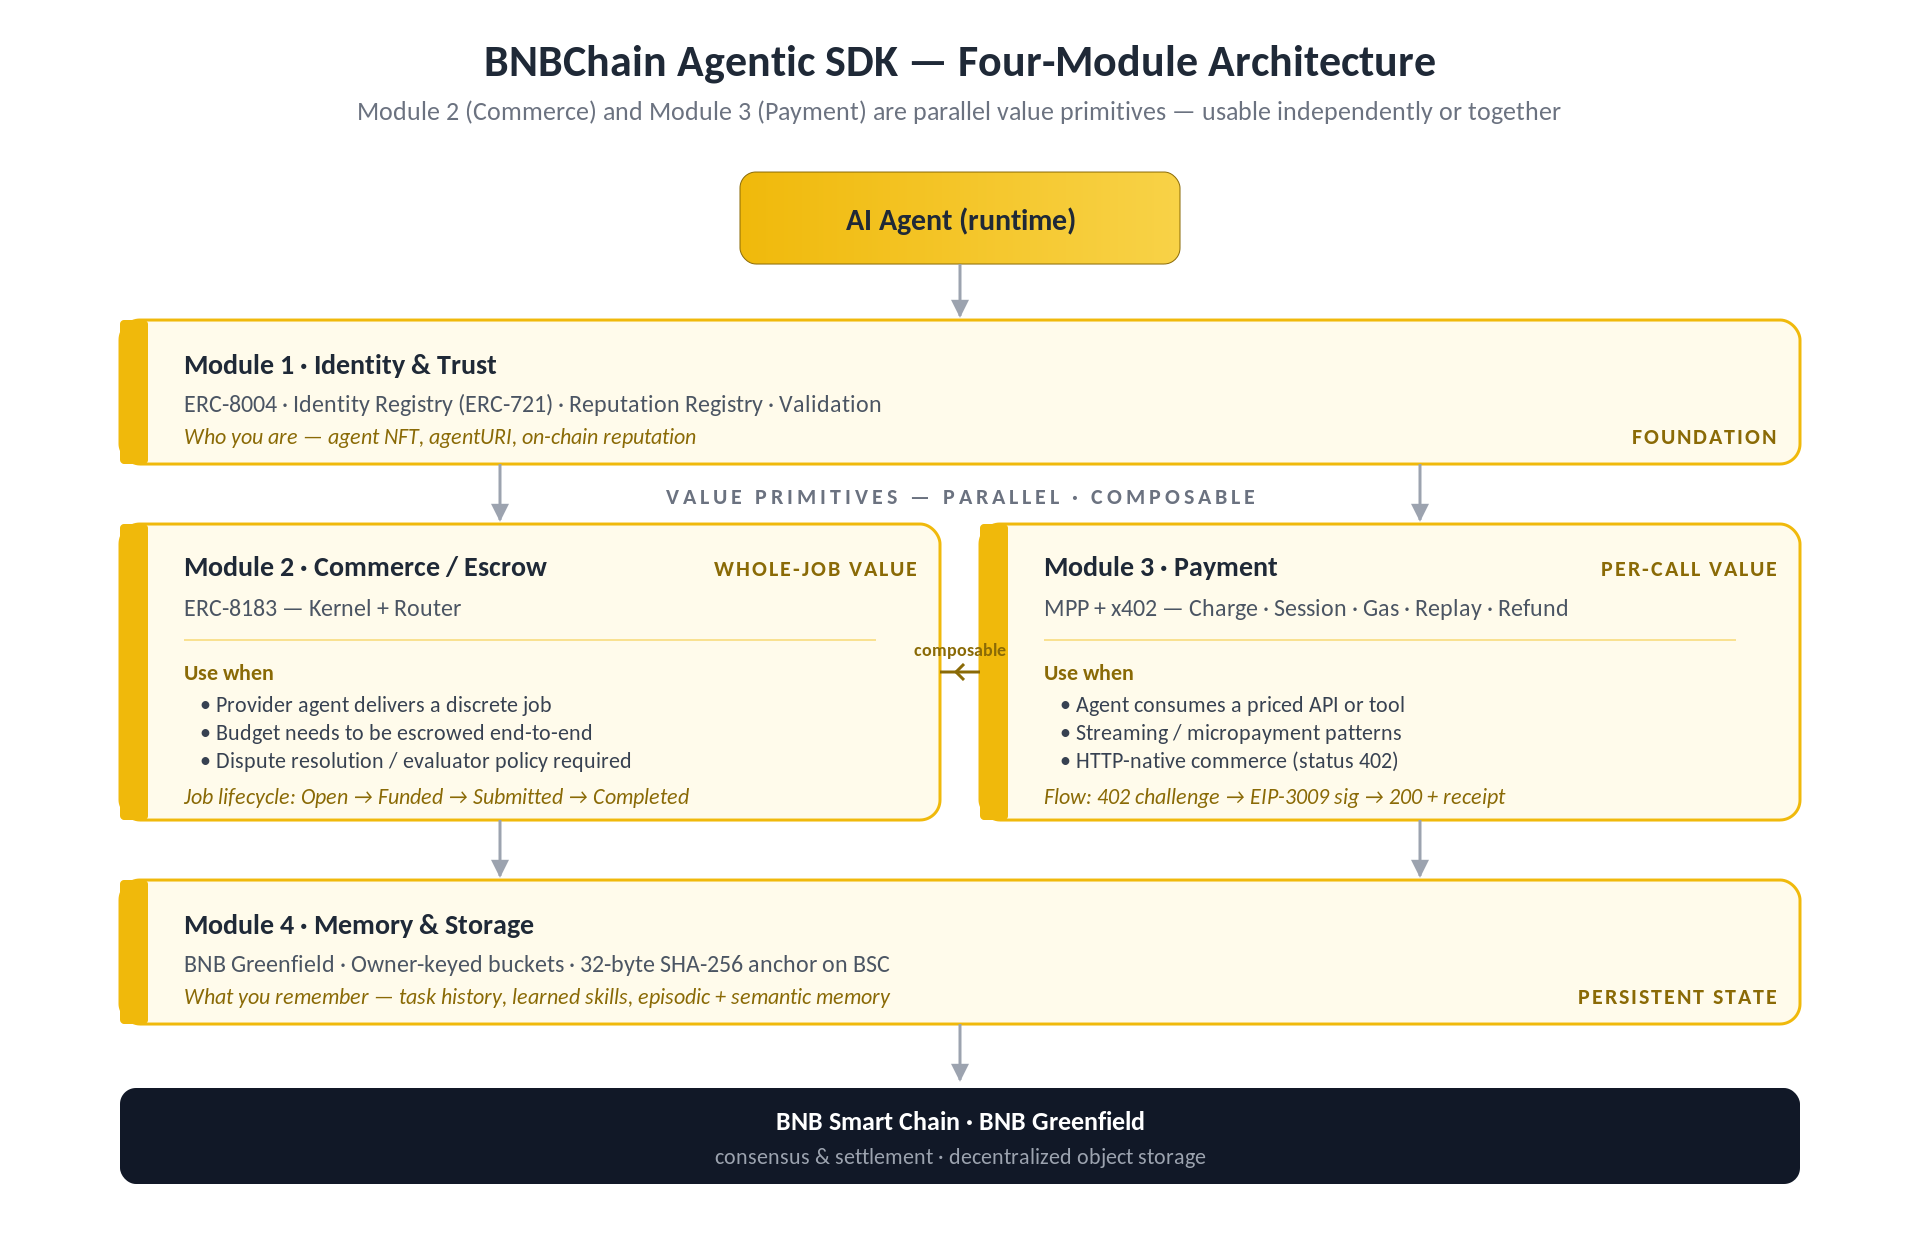
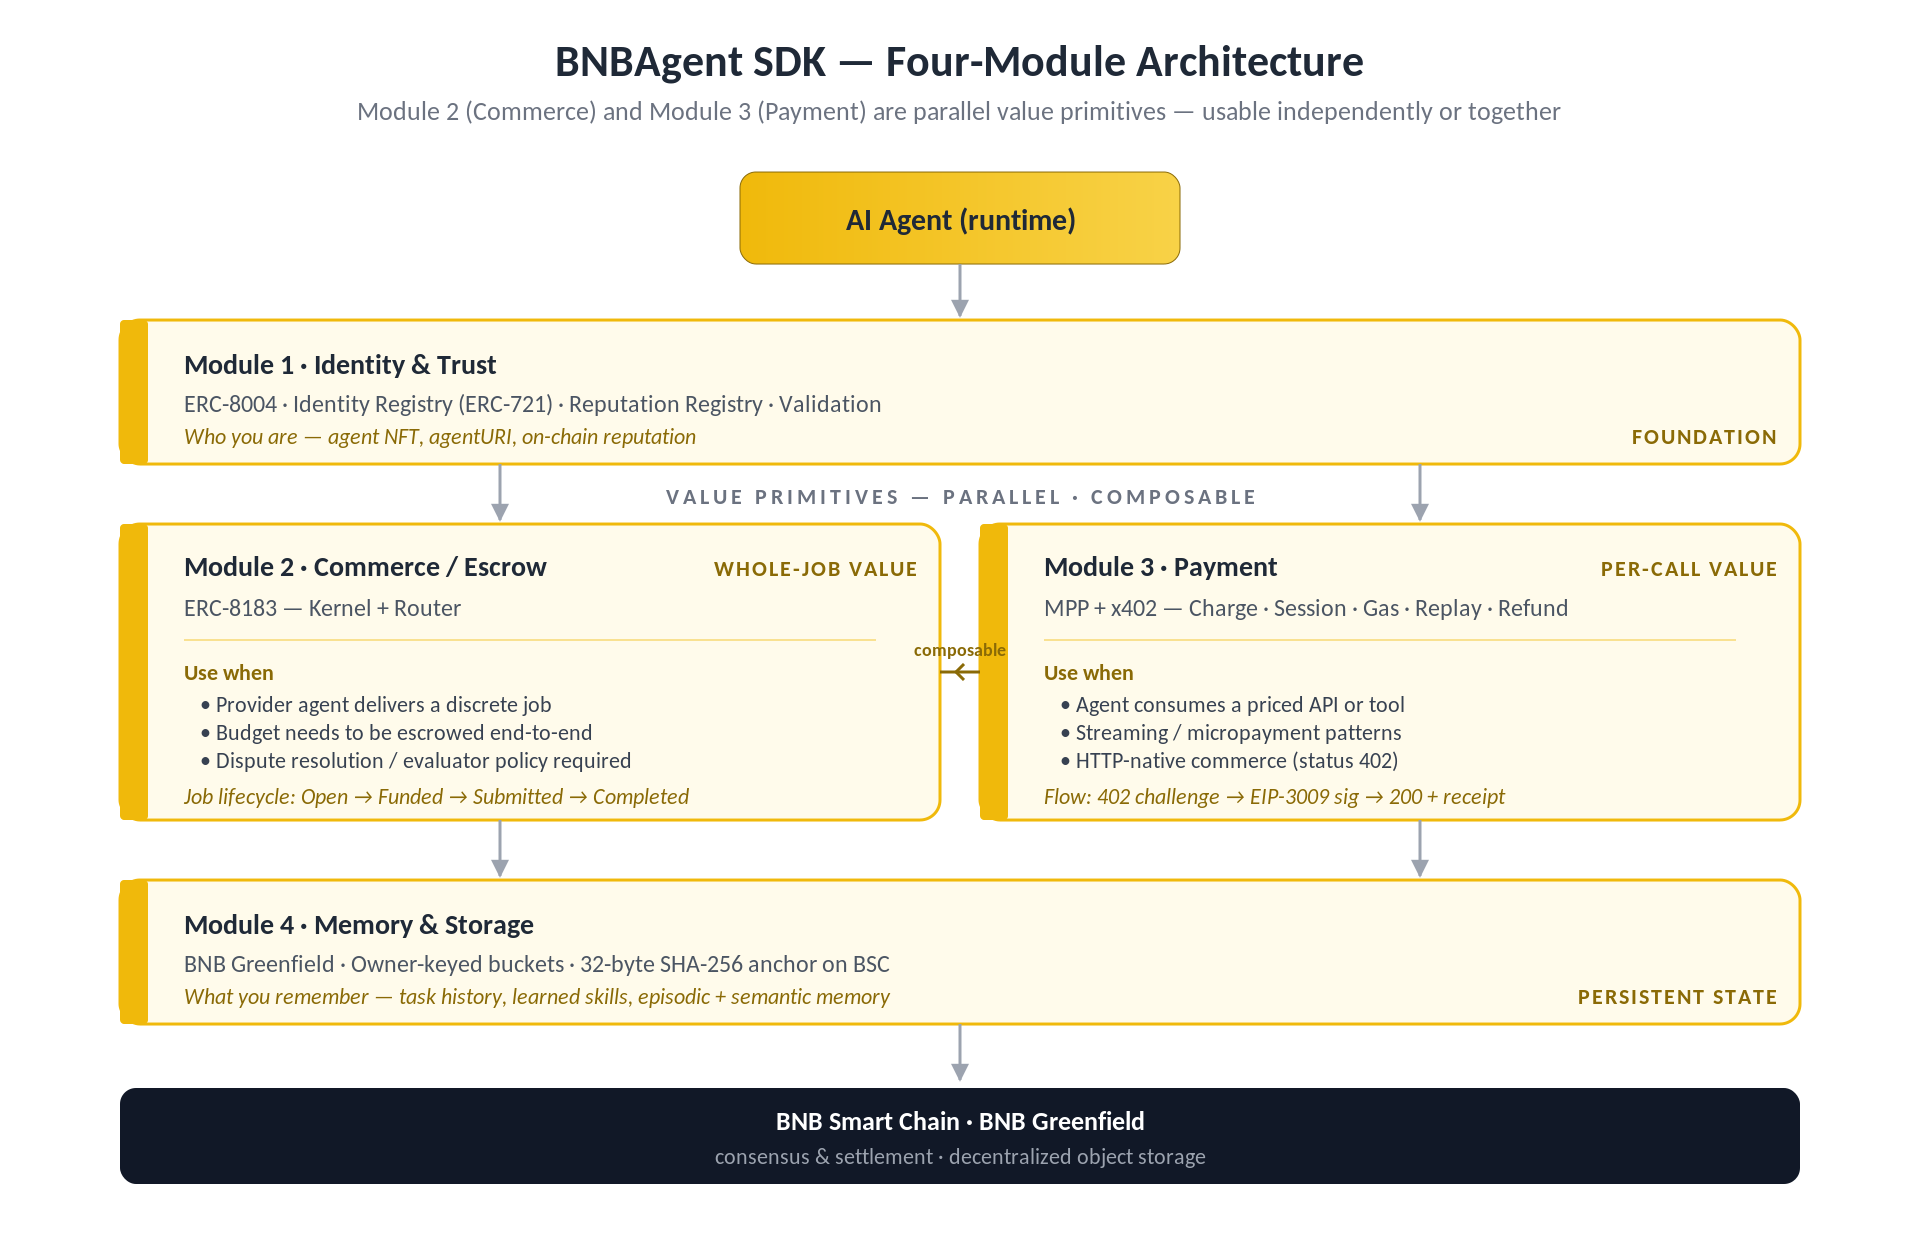
docs(BAP-692): rename "BNBChain Agentic SDK" to "BNBAgent SDK"

Changed region(s): [[0.25, 0.0306, 0.75, 0.0613]]

diff --git a/README.md b/README.md
@@ -119,7 +119,7 @@ Here is the list of subjects of BAPs:
 | Number                       | Title                                                     | Type      | Status    |
 |------------------------------| --------------------------------------------------------- | --------- |-----------|
 | [BAP-578](./BAPs/BAP-578.md) | BAP-578: Non-Fungible Agent (NFA) Token Standard | Application | Draft |
-| [BAP-792](./BAPs/BAP-692.md) | BAP-692: BNBChain Agentic SDK — Identity, Commerce, Payment, Memory | Application | Draft |
+| [BAP-792](./BAPs/BAP-692.md) | BAP-692: BNBAgent SDK — Identity, Commerce, Payment, Memory | Application | Draft |
 
 # BNB Chain Upgrades
 [BNB Chain Upgrades(Mainnet): History & Forecast](https://forum.bnbchain.org/t/bnb-chain-upgrades-mainnet/936)
